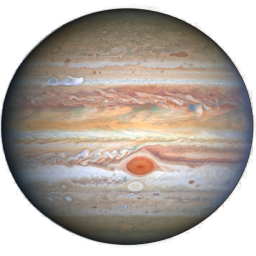
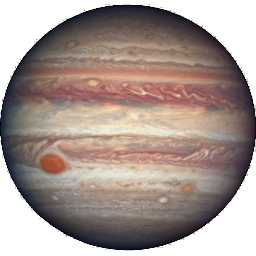
better textures

diff --git a/src/main.rs b/src/main.rs
@@ -33,9 +33,6 @@ struct Planet<'a> {
     sidereal: f64,
     phase: f64,
     texture: Option<Texture<'a>>,
-    r: u8,
-    g: u8,
-    b: u8,
 }
 
 struct Step {
@@ -132,9 +129,6 @@ fn read_planets<'a, T>(texture_creator: &'a TextureCreator<T>, filename: &'a str
         let sidereal = parts.next().unwrap().parse::<f64>().unwrap();
         let phase = parts.next().unwrap().parse::<f64>().unwrap();
         let texture = parts.next().unwrap();
-        let r = parts.next().unwrap().parse::<u8>().unwrap();
-        let g = parts.next().unwrap().parse::<u8>().unwrap();
-        let b = parts.next().unwrap().parse::<u8>().unwrap();
         planets.push(Planet {
             name,
             semimajor,
@@ -148,9 +142,6 @@ fn read_planets<'a, T>(texture_creator: &'a TextureCreator<T>, filename: &'a str
                         .unwrap_or_else(|_| panic!("Couldn't find {}", texture)),
                 ),
             },
-            r,
-            g,
-            b,
         });
     }
     planets
@@ -416,12 +407,10 @@ fn main() {
                     .copy(
                         planet.texture.as_ref().unwrap(),
                         None,
-                        Rect::new((x - 10).into(), (y - 10).into(), 20, 20),
+                        Rect::new((x - 8).into(), (y - 8).into(), 16, 16),
                     )
                     .unwrap(),
-                None => canvas
-                    .filled_circle(x, y, 7, Color::RGB(planet.r, planet.g, planet.b))
-                    .unwrap(),
+                None => canvas.filled_circle(x, y, 8, Color::RGB(255, 255, 255)).unwrap(),
             }
             canvas.text(&planet.name, &small_font, x, y, 10);
         }
